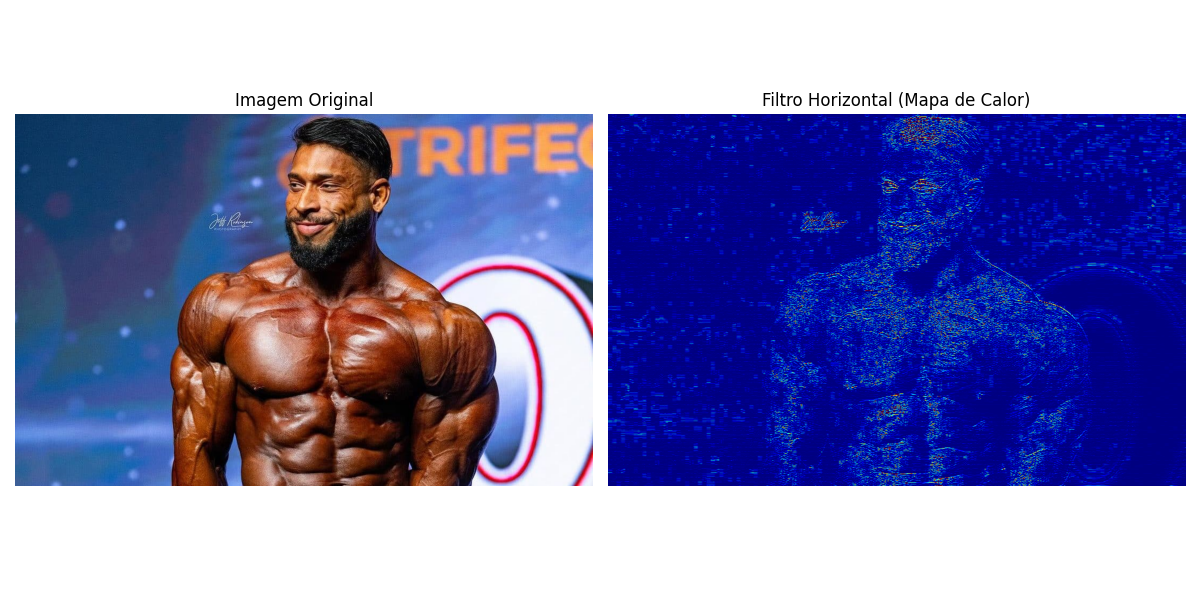
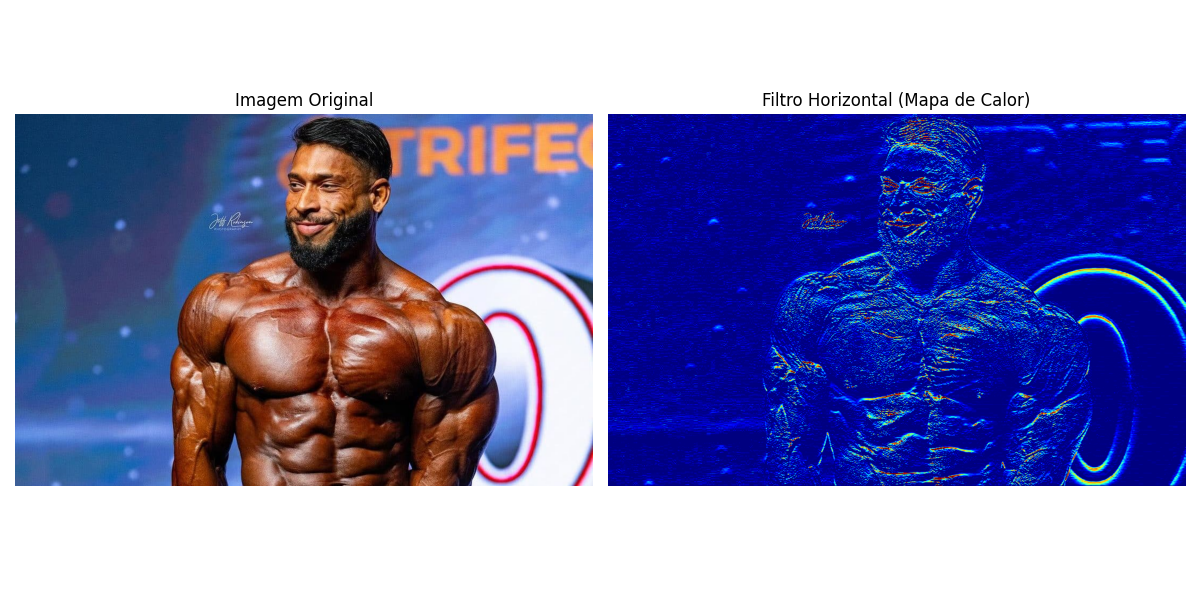
Deixei os filtros mais robustos

diff --git a/test_opencv.py b/test_opencv.py
@@ -25,17 +25,38 @@ if imagem is None:
     print(f"Erro ao carregar a imagem '{caminho_imagem}'")
     exit()
 
-# Filtros de textura
-kernel_vertical = np.array([
-    [-1,  2, -1],
-    [-1,  2, -1],
-    [-1,  2, -1]
+# Filtros de Sobel (mais robustos)
+kernel_sobel_vertical = np.array([
+    [-1,  0,  1],
+    [-2,  0,  2],
+    [-1,  0,  1]
 ], dtype=np.float32)
 
-kernel_horizontal = np.array([
-    [-1, -1, -1],
-    [ 2,  2,  2],
-    [-1, -1, -1]
+kernel_sobel_horizontal = np.array([
+    [-1, -2, -1],
+    [ 0,  0,  0],
+    [ 1,  2,  1]
+], dtype=np.float32)
+
+# Filtro Laplaciano
+kernel_laplaciano = np.array([
+    [0,  1, 0],
+    [1, -4, 1],
+    [0,  1, 0]
+], dtype=np.float32)
+
+# Filtro de borda diagonal 45°
+kernel_45 = np.array([
+    [0, -1, -1],
+    [1,  0, -1],
+    [1,  1,  0]
+], dtype=np.float32)
+
+# Filtro de borda diagonal 135°
+kernel_135 = np.array([
+    [1,  1,  0],
+    [-1, 0,  1],
+    [-1, -1,  0]
 ], dtype=np.float32)
 
 # Lista para somar as respostas de todos os filtros
@@ -71,9 +92,12 @@ def aplicar_filtro(nome, kernel):
     plt.close()
     print(f"Mapa de calor ({nome}) salvo em: {saida}")
 
-# Aplicar os filtros definidos
-aplicar_filtro("Vertical", kernel_vertical)
-aplicar_filtro("Horizontal", kernel_horizontal)
+# Aplicar os filtros
+aplicar_filtro("Vertical", kernel_sobel_vertical)
+aplicar_filtro("Horizontal", kernel_sobel_horizontal)
+aplicar_filtro("Laplaciano", kernel_laplaciano)
+aplicar_filtro("45", kernel_45)
+aplicar_filtro("135", kernel_135)
 
 # Criar o heatmap final acumulado
 soma = np.sum(respostas_acumuladas, axis=0)
